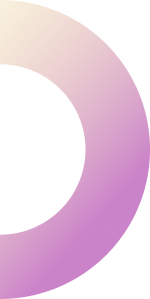
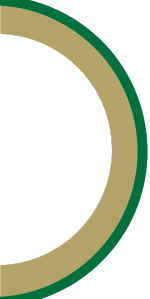
Branding

diff --git a/assets/css/global.css b/assets/css/global.css
@@ -92,7 +92,7 @@ a{
 }
 
 a:hover{
-  color: #97e4ff;
+  color: #00703C;
   text-decoration:none;
   outline:none;
 }
@@ -207,7 +207,7 @@ h4{
   margin: auto;
   width: 300px;
   height: 300px;
-  color: #97e4ff;
+  color: #00703C;
 }
 .preloader, 
 .preloader-ring {
@@ -240,7 +240,7 @@ h4{
     height: 100%;
 }
 .preloader-sector:empty:before {
-    background: linear-gradient(transparent 50%, #97e4fff5 50% 55%, transparent 55%);
+    background: linear-gradient(transparent 50%, #00703C 50% 55%, transparent 55%);
     content: "";
 }
 @keyframes spin-1 {
@@ -942,7 +942,7 @@ img {
   -ms-transition:all 500ms ease;
   -o-transition:all 500ms ease;
   transform: translateY(-100%);
-  border-bottom: 0.5px solid #97e4ff30;
+  border-bottom: 0.5px solid #00703C;
 }
 
 .fixed-header .sticky-header{
@@ -1060,11 +1060,11 @@ img {
   padding: 15px 24px;
 }
 .main-menu .navigation > li > ul > li:hover > a{
-  color: #97e4ff !important;
+  color: #00703C !important;
 }
 .main-menu .navigation > li:hover a,
 .main-menu .navigation > li.current a {
-  color: #97e4ff;
+  color: #00703C;
 }
 
 .main-menu .navigation > li > ul.from-right{
@@ -1097,7 +1097,7 @@ img {
 }
 .main-menu .navigation > li:hover .dropdown-btn,
 .main-menu .navigation > li.current .dropdown-btn{
-  color: #97e4ff !important;
+  color: #00703C !important;
 }
 
 .main-menu .navigation > li > ul > li > a{
@@ -1282,7 +1282,7 @@ img {
   width: 30px;
   display: block;
   margin-bottom: 5px;
-  background-color: #97e4ff;
+  background-color: #00703C;
   -webkit-transition: all 300ms ease;
   -moz-transition: all 300ms ease;
   -ms-transition: all 300ms ease;
@@ -1679,7 +1679,7 @@ div#mCSB_1_container{
 }
 
 .top__hrader__left li span {
-  color: #97e4ff;
+  color: #00703C;
 }
 
 .top__hrader__left li {
@@ -1960,7 +1960,7 @@ body.out .mouse-pointer {
 }
 .footer-widget .widget-title:after {
   content: "";
-  background: #97e4ff;
+  background: #00703C;
   width: 37px;
   height: 2px;
   position: absolute;
@@ -2004,7 +2004,7 @@ body.out .mouse-pointer {
   color: #fff;
 }
 .footer-bottom .copyright p a {
-  color: #97e4ff;
+  color: #00703C;
 }
 .footer-bottom {
   padding-top: 30px;
@@ -2616,7 +2616,7 @@ body.out .mouse-pointer {
 
 
 .sub__title h4 {
-  color: #97e4ff;
+  color: #00703C;
   font-family: Archivo;
   font-size: 20px;
   font-style: normal;

diff --git a/index.html b/index.html
@@ -299,7 +299,7 @@ document.addEventListener('DOMContentLoaded', (event) => {
                                         <h4>Cutting Edge Ai: </h4>
                                     </div>
                                     <div class="title">
-                                        <h2>Leveraging AI technologies </h2>
+                                        <h2>Leveraging AI technologies</h2>
                                     </div>
                                 </div>
                                 <div class="team__data">
@@ -380,17 +380,17 @@ document.addEventListener('DOMContentLoaded', (event) => {
             <div class="brand-carousel owl-carousel owl-theme  nav-style-one owl-loaded owl-drag">
                 <div class="brand__content">
                     <div class="brand__name">
-                        <h1>Cutting</h1>
+                        <h1>Cutting Edge Tech</h1>
                     </div>
                 </div>
                 <div class="brand__content">
                     <div class="brand__name">
-                        <h1>Edge Ai</h1>
+                        <h1>Leveraging AI</h1>
                     </div>
                 </div>
                 <div class="brand__content">
                     <div class="brand__name">
-                        <h1>Technology</h1>
+                        <h1>UNCC Initiative</h1>
                     </div>
                 </div>
                 <div class="brand__content">

diff --git a/components/teamplugin.html b/components/teamplugin.html
@@ -388,7 +388,7 @@
         </div>
         <div class="team__name">
             <h3>Dr. Pu Wang</h3>
-            <p class="team__role">Principal Investigator - Computer Science Professor</p>       </div>
+            <p class="team__role">Co-Founder and Co-Director - Ai4Health</p>       </div>
     </div>
 </div>
 <!-- Pop-up for Leadership Member 1 -->
@@ -430,7 +430,7 @@
         </div>
         <div class="team__name">
             <h3>Dr. Ahmed Helmy</h3>
-            <p class="team__role">Associate Dean for Research - Computer Science Department</p>      </div>
+            <p class="team__role">Co-Founder and Co-Director - Ai4Health</p>      </div>
     </div>
 </div>
 
@@ -1230,9 +1230,12 @@
       
     
 
-<div class="section-title">
-    <h2>Staff</h2>
-    </div>
+
+
+    <div class="section-title">
+        <h2>Center Staff</h2>
+        </div>
+    
     <div class="row">
 <!-- Staff Member 1 -->
 <div class="col-lg-3 col-md-6 col-sm-12">
